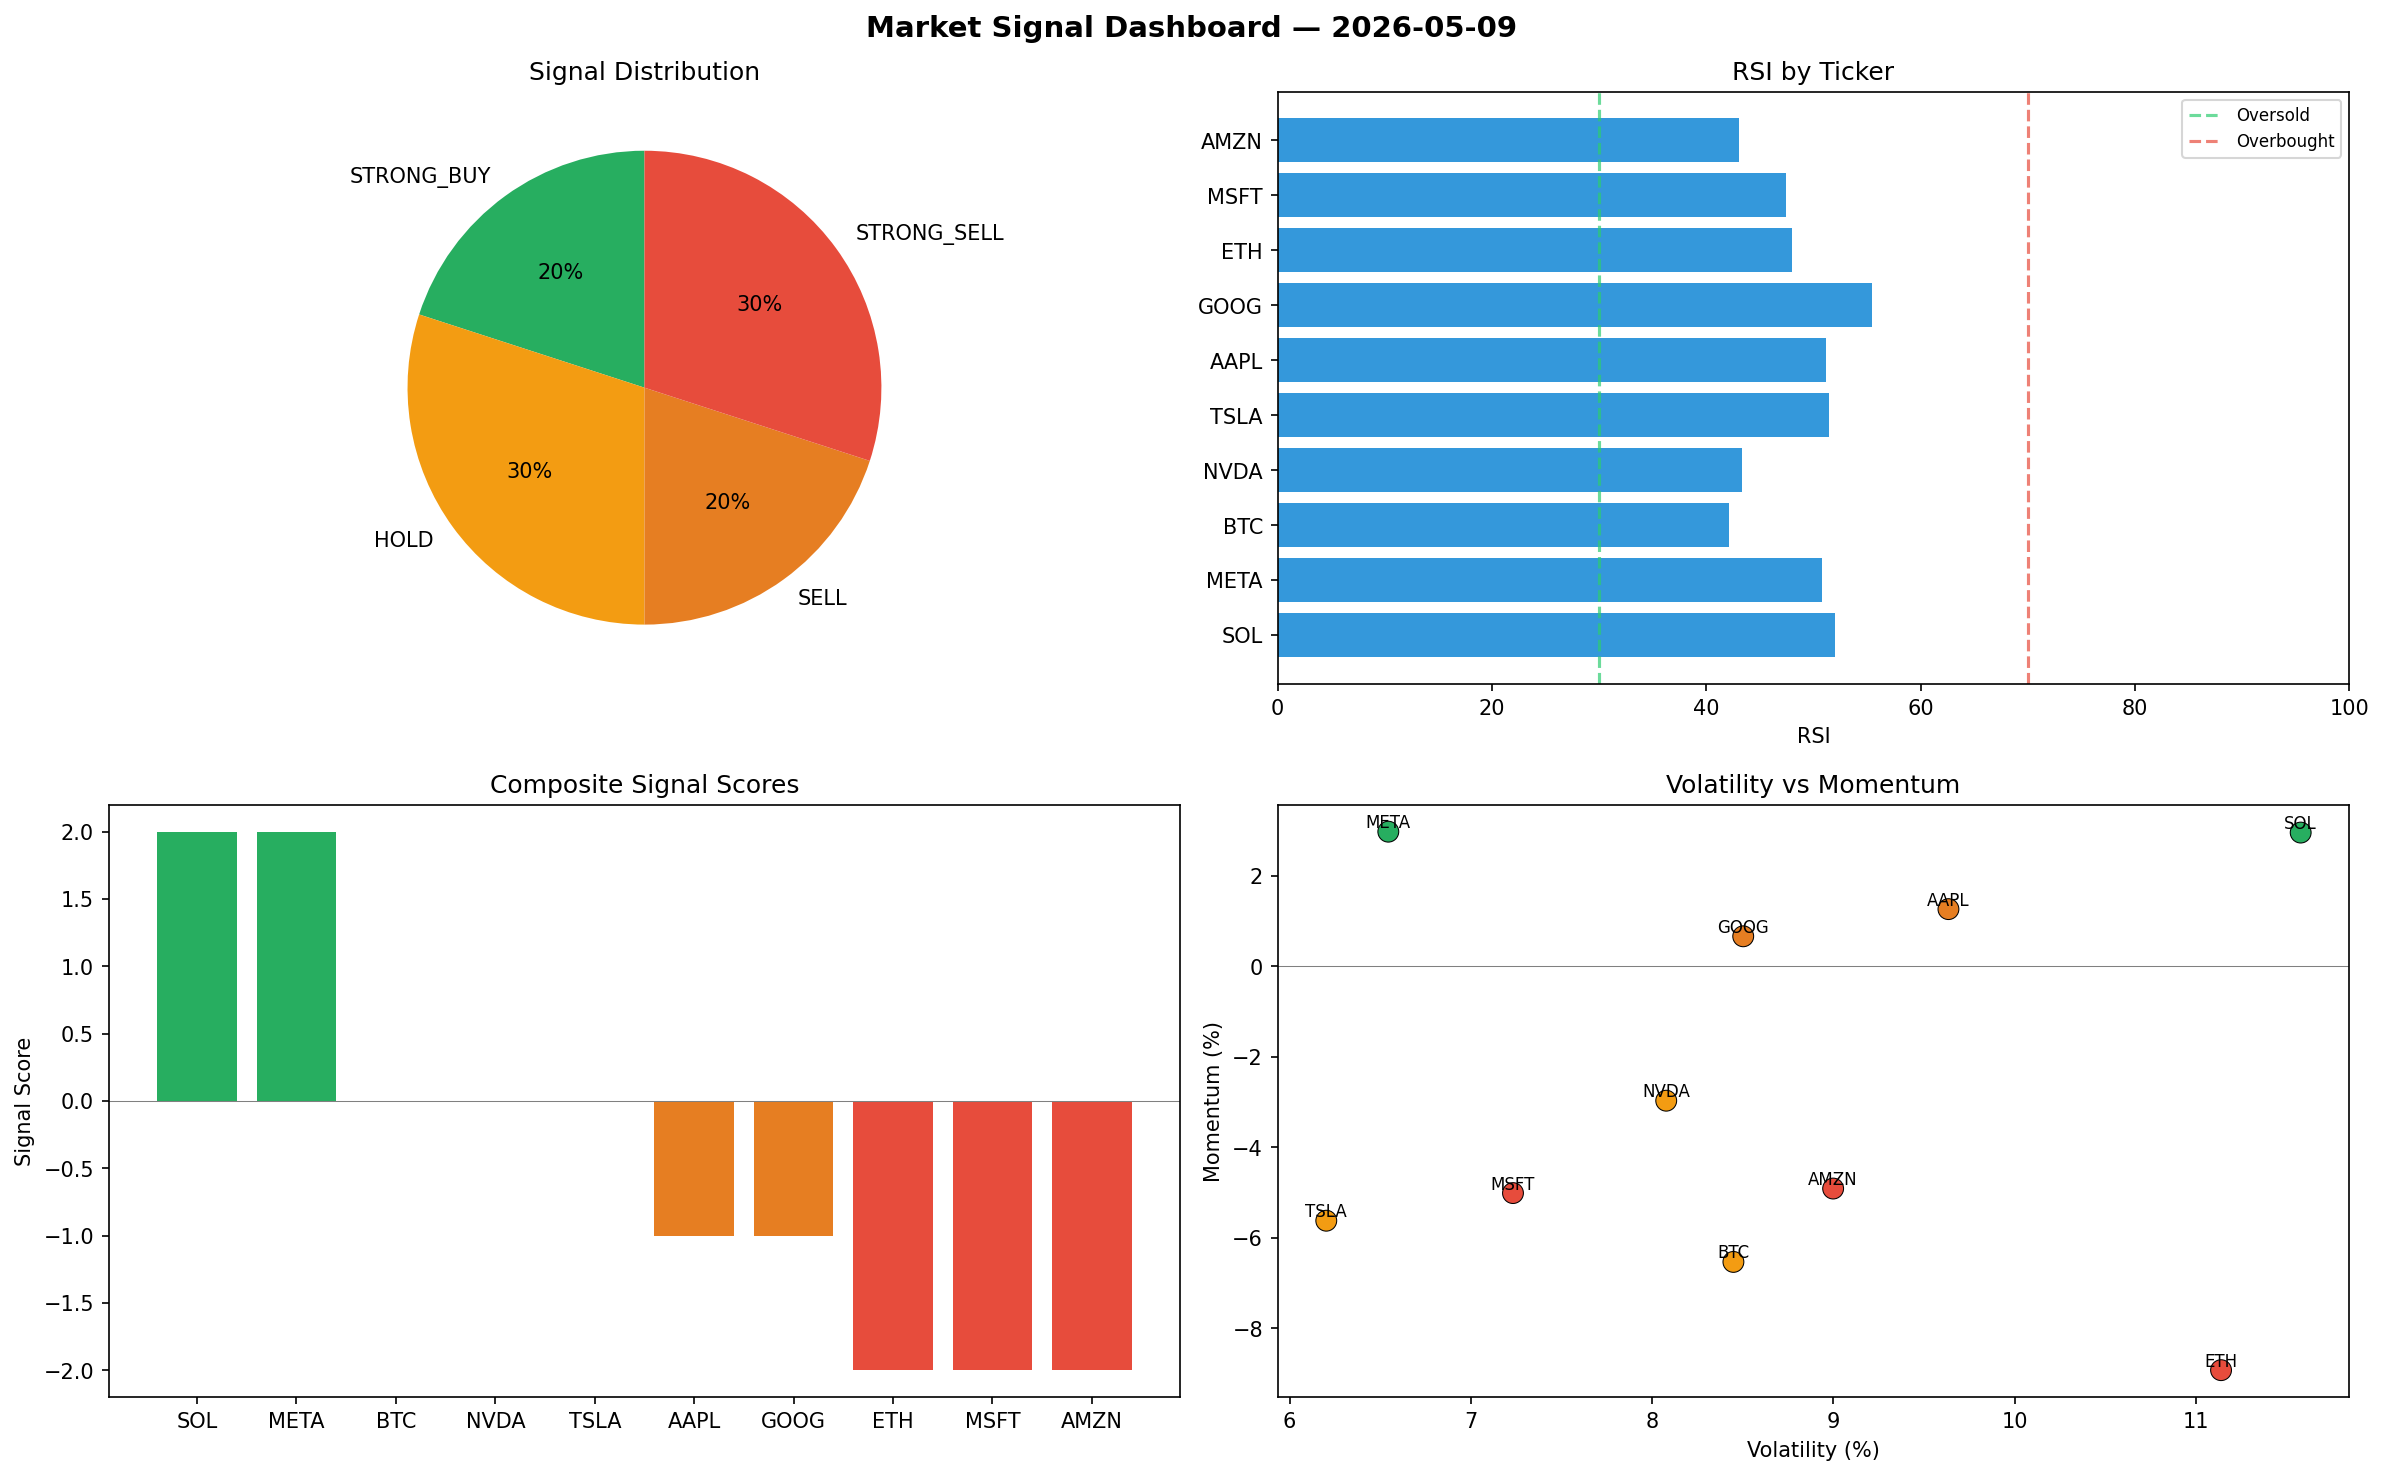
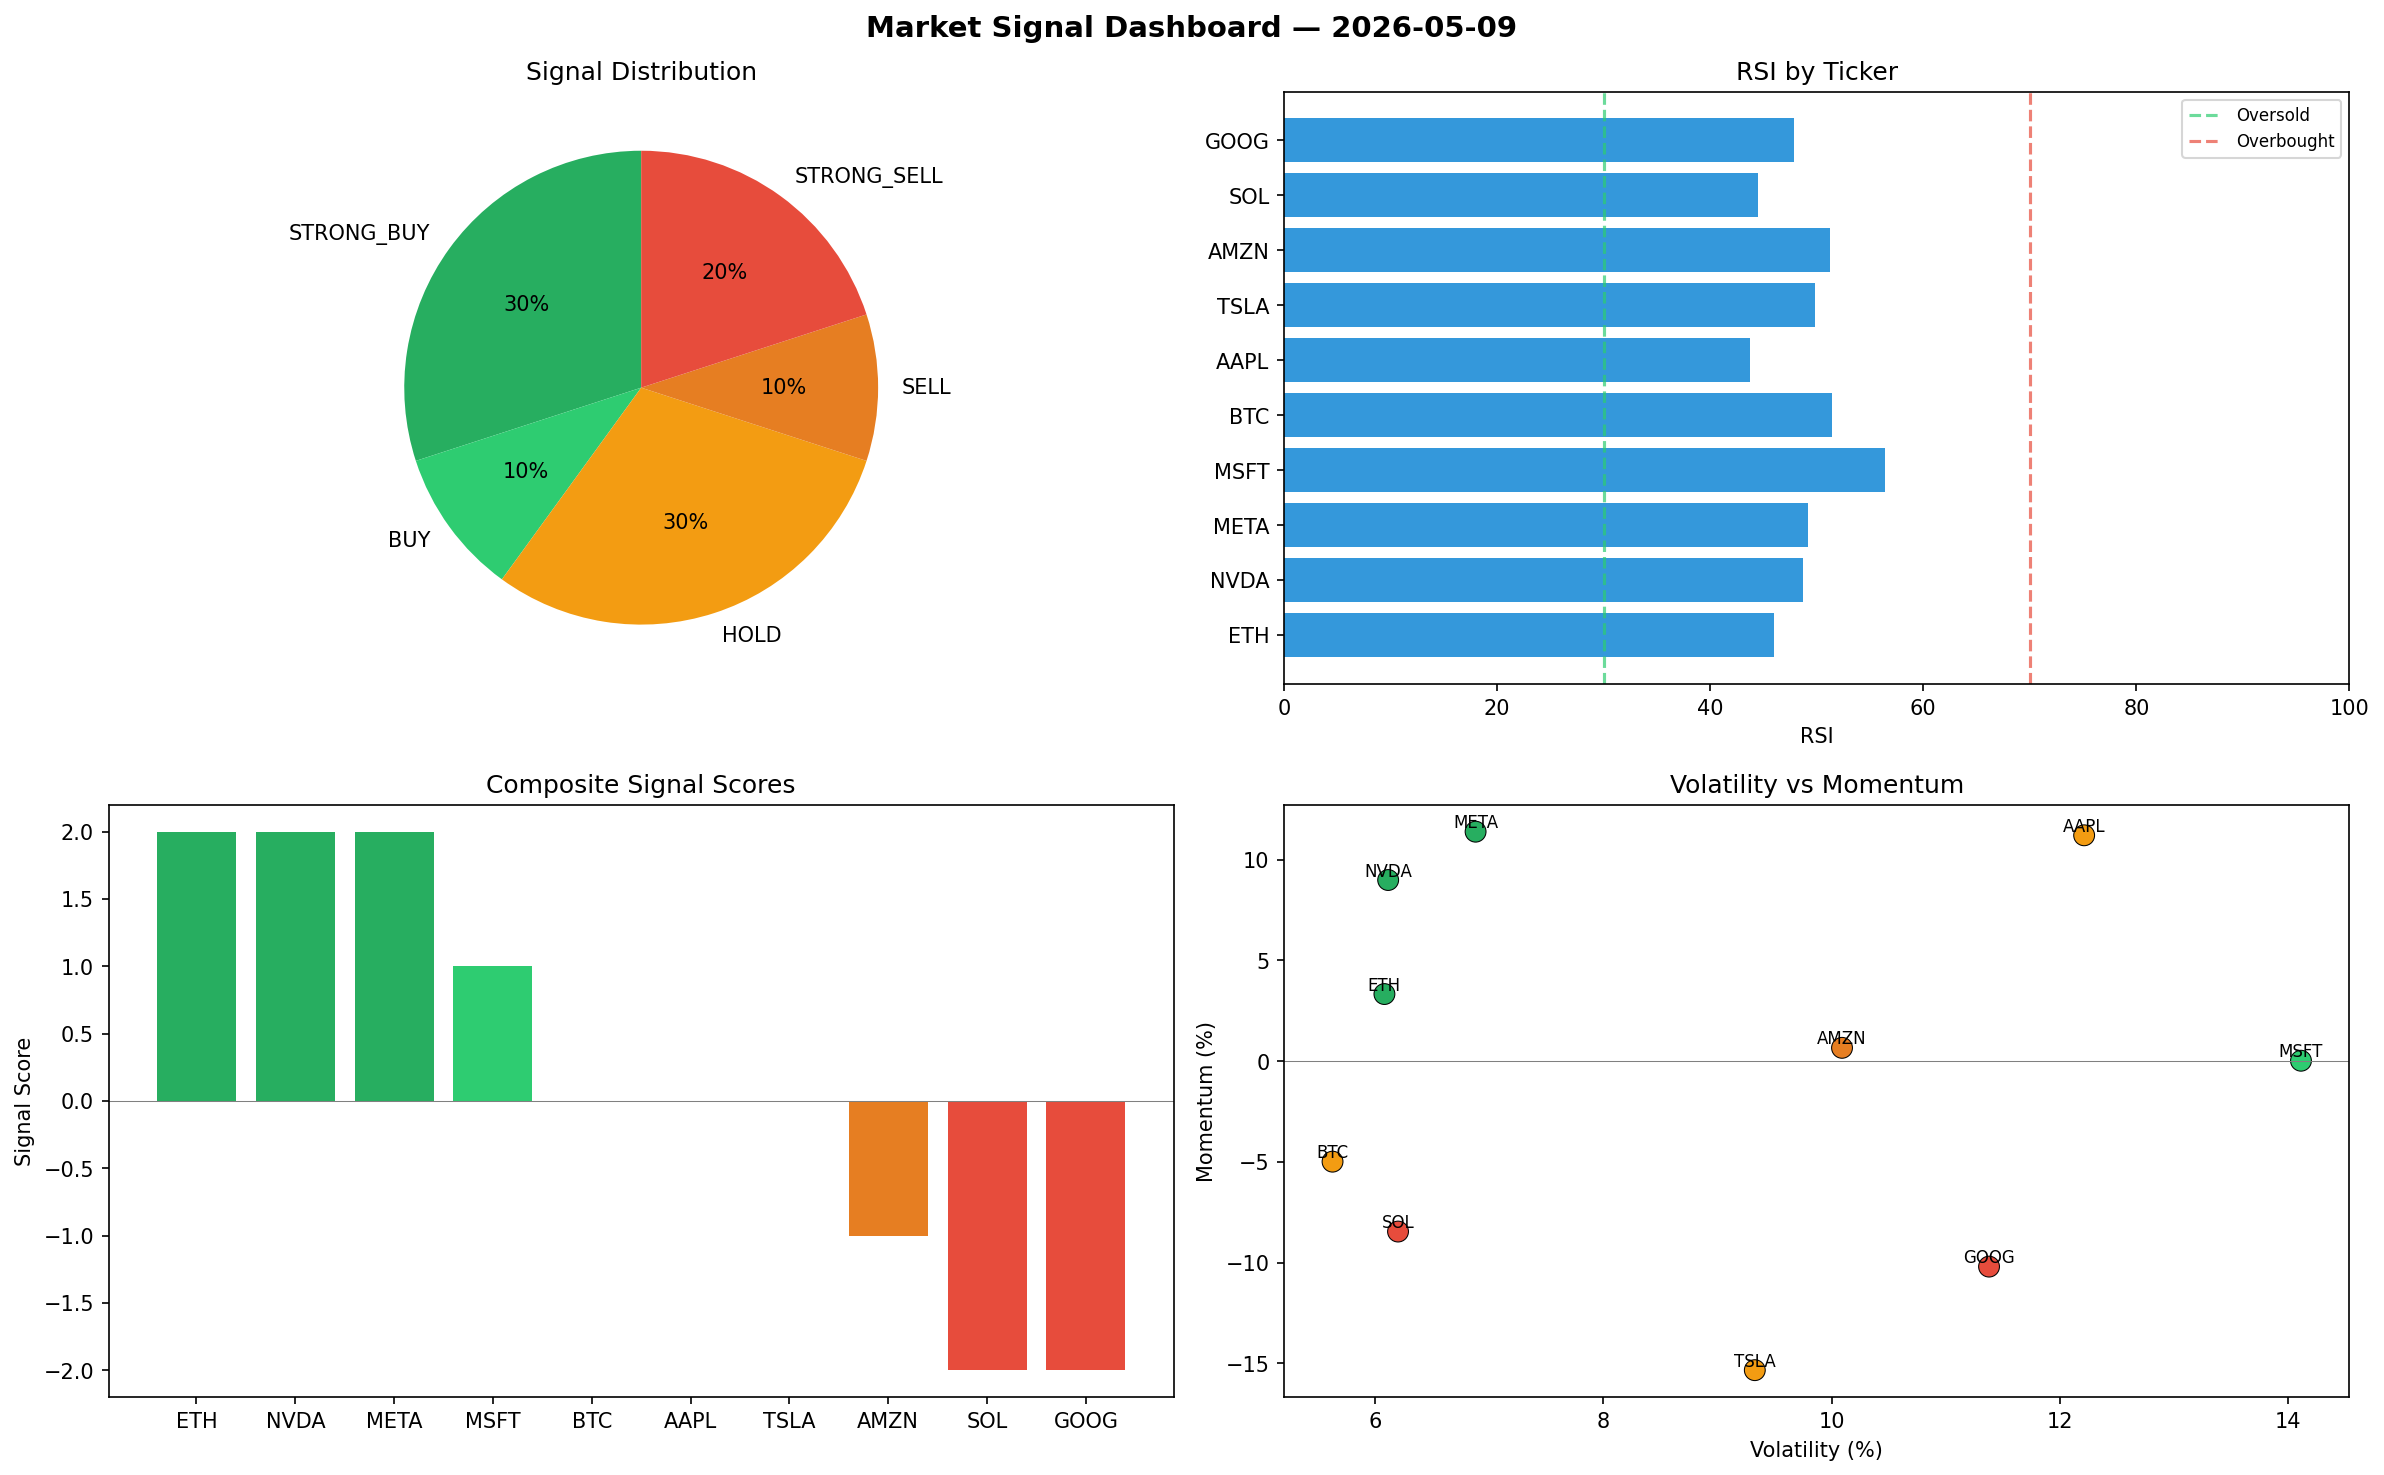
automated-bots: market signals 2026-05-09T09:50

diff --git a/logs/2026-05-09.md b/logs/2026-05-09.md
@@ -1,6 +1,6 @@
 # Market Signal Report — 2026-05-09
 
-**Run ID:** `bb9e9dba22` | **Buy:** 2 | **Sell:** 5 | **Hold:** 3
+**Run ID:** `1521d90323` | **Buy:** 4 | **Sell:** 3 | **Hold:** 3
 
 ![Dashboard](2026-05-09_dashboard.png)
 
@@ -8,28 +8,28 @@
 
 | Ticker | Price | Signal | Score | RSI | Momentum | Confidence |
 |--------|-------|--------|-------|-----|----------|------------|
-| SOL | $4040.58 | **STRONG_BUY** | 2 | 51.99 | 0.0295 | 0.5 |
-| META | $465.91 | **STRONG_BUY** | 2 | 50.83 | 0.0297 | 0.5 |
-| BTC | $3321.97 | **HOLD** | 0 | 42.16 | -0.0653 | 0.0 |
-| NVDA | $1171.59 | **HOLD** | 0 | 43.33 | -0.0297 | 0.0 |
-| TSLA | $3068.57 | **HOLD** | 0 | 51.44 | -0.0562 | 0.0 |
-| AAPL | $3023.9 | **SELL** | -1 | 51.14 | 0.0126 | 0.25 |
-| GOOG | $2615.93 | **SELL** | -1 | 55.45 | 0.0066 | 0.25 |
-| ETH | $1648.28 | **STRONG_SELL** | -2 | 48.02 | -0.0892 | 0.5 |
-| MSFT | $797.78 | **STRONG_SELL** | -2 | 47.48 | -0.0501 | 0.5 |
-| AMZN | $3882.47 | **STRONG_SELL** | -2 | 43.05 | -0.0491 | 0.5 |
+| ETH | $4290.9 | **STRONG_BUY** | 2 | 46.01 | 0.0333 | 0.5 |
+| NVDA | $262.78 | **STRONG_BUY** | 2 | 48.71 | 0.0899 | 0.5 |
+| META | $3154.34 | **STRONG_BUY** | 2 | 49.19 | 0.1139 | 0.5 |
+| MSFT | $3624.38 | **BUY** | 1 | 56.45 | 0.0002 | 0.25 |
+| BTC | $3576.72 | **HOLD** | 0 | 51.39 | -0.0499 | 0.0 |
+| AAPL | $3707.82 | **HOLD** | 0 | 43.77 | 0.1121 | 0.0 |
+| TSLA | $1138.9 | **HOLD** | 0 | 49.83 | -0.1534 | 0.0 |
+| AMZN | $2888.03 | **SELL** | -1 | 51.26 | 0.0066 | 0.25 |
+| SOL | $1777.46 | **STRONG_SELL** | -2 | 44.47 | -0.0846 | 0.5 |
+| GOOG | $3435.4 | **STRONG_SELL** | -2 | 47.82 | -0.102 | 0.5 |
 
 ## Delta vs Yesterday
 
 | Ticker | Today | Yesterday | Price Change | Signal Changed |
 |--------|-------|-----------|-------------|----------------|
-| SOL | STRONG_BUY | STRONG_SELL | 📈 395.13% | ⚠ YES |
-| META | STRONG_BUY | HOLD | 📉 -87.02% | ⚠ YES |
-| BTC | HOLD | STRONG_SELL | 📉 -11.98% | ⚠ YES |
-| NVDA | HOLD | STRONG_SELL | 📉 -73.24% | ⚠ YES |
-| TSLA | HOLD | SELL | 📉 -11.06% | ⚠ YES |
-| AAPL | SELL | BUY | 📈 20.47% | ⚠ YES |
-| GOOG | SELL | BUY | 📉 -41.65% | ⚠ YES |
-| ETH | STRONG_SELL | STRONG_SELL | 📉 -66.56% | — |
-| MSFT | STRONG_SELL | STRONG_SELL | 📈 7.73% | — |
-| AMZN | STRONG_SELL | BUY | 📈 1642.27% | ⚠ YES |
+| ETH | STRONG_BUY | STRONG_SELL | 📉 -12.95% | ⚠ YES |
+| NVDA | STRONG_BUY | STRONG_SELL | 📉 -94.0% | ⚠ YES |
+| META | STRONG_BUY | HOLD | 📉 -12.15% | ⚠ YES |
+| MSFT | BUY | STRONG_SELL | 📈 389.44% | ⚠ YES |
+| BTC | HOLD | STRONG_SELL | 📉 -5.23% | ⚠ YES |
+| AAPL | HOLD | BUY | 📈 47.72% | ⚠ YES |
+| TSLA | HOLD | SELL | 📉 -66.99% | ⚠ YES |
+| AMZN | SELL | BUY | 📈 1196.01% | ⚠ YES |
+| SOL | STRONG_SELL | STRONG_SELL | 📈 117.81% | — |
+| GOOG | STRONG_SELL | BUY | 📉 -23.37% | ⚠ YES |
